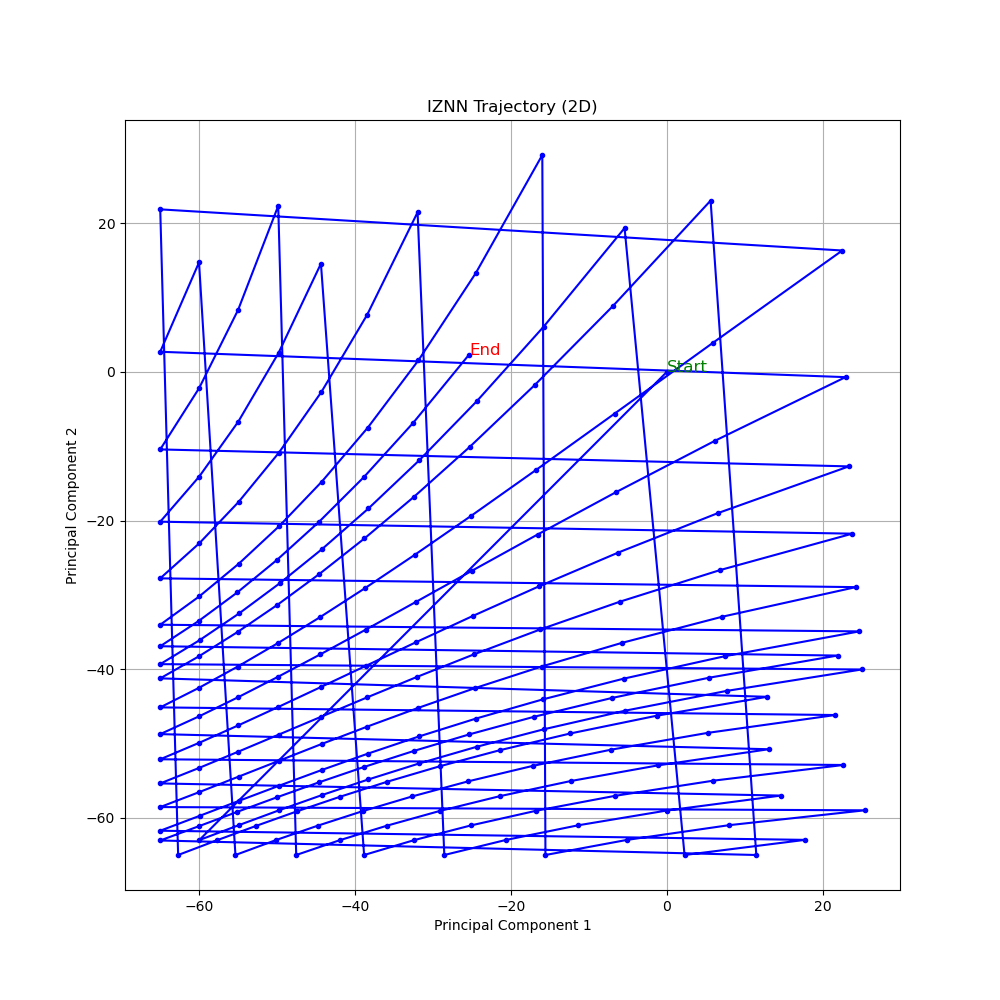
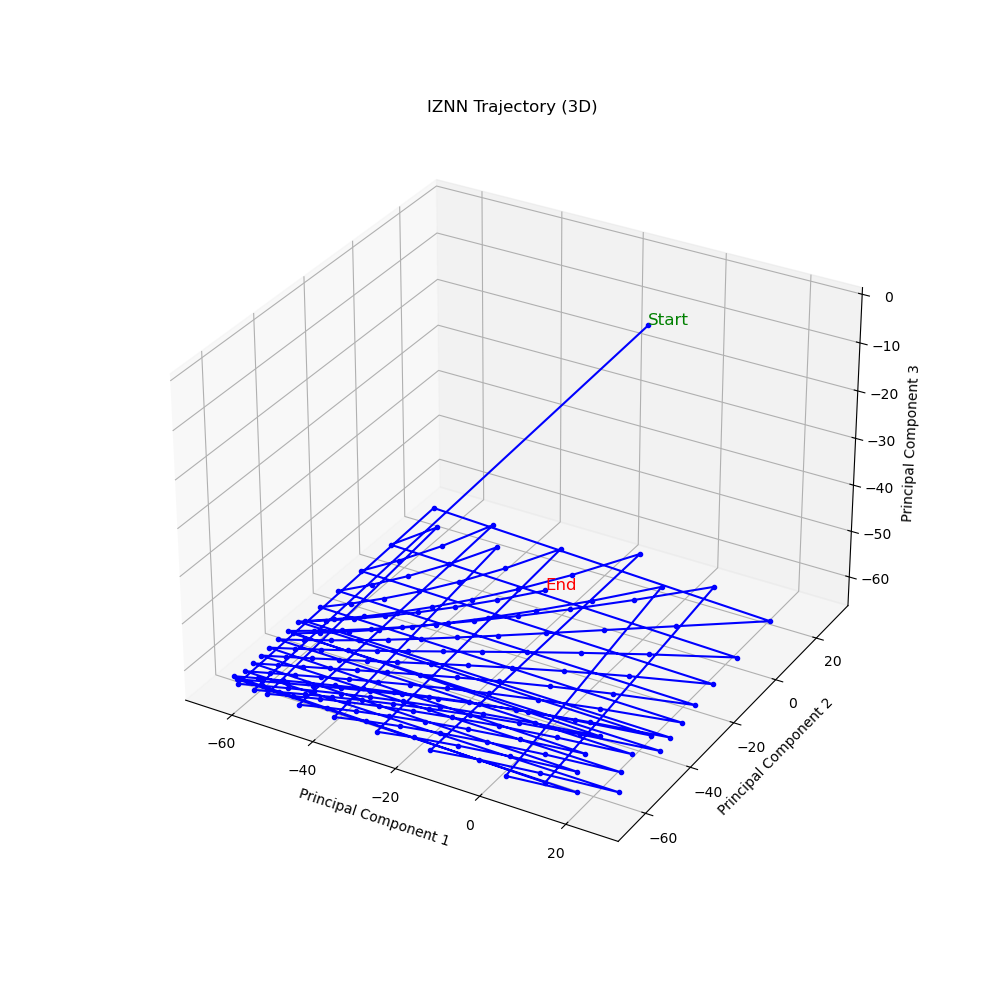
working on determining attractors and reworked the way dynamic plotters receive their output to be closer to industry standard

diff --git a/ctneat/ctrnn/ctrnn_visualize.py b/ctneat/ctrnn/ctrnn_visualize.py
@@ -37,8 +37,8 @@ def draw_ctrnn_dynamics(states: np.ndarray, uniform_time: bool = True, times: Op
     """
     This function draws the dynamics of the CTRNN over time.
     Args:
-        states: A 2D numpy array where each column corresponds to the state of the network at a given time step,
-        and each row corresponds to a specific node's state.
+        states: A 2D numpy array where each row corresponds to the state of the network at a given time step,
+        and each column corresponds to a specific node's state.
         iznn: Whether the network is an Izhikevich spiking neural network (IZNN). If True, the function gives correct labels.
         save: Whether to save the plot as a file. If False, the plot is shown interactively.
         show: Whether to display the plot interactively. If False, the plot is only saved to a file if 'save' is True.
@@ -48,9 +48,9 @@ def draw_ctrnn_dynamics(states: np.ndarray, uniform_time: bool = True, times: Op
         None
     """
     if uniform_time:
-        times = np.arange(states.shape[1])
+        times = np.arange(states.shape[0])
     else:
-        if times is None or len(times) != states.shape[1]:
+        if times is None or len(times) != states.shape[0]:
             raise ValueError("Invalid times array. Must be provided and match the number of time steps in states.")
 
     plt.figure()
@@ -59,8 +59,8 @@ def draw_ctrnn_dynamics(states: np.ndarray, uniform_time: bool = True, times: Op
     plt.ylabel("Output")
     plt.grid()
 
-    for i in range(states.shape[0]):
-        plt.plot(times, states[i], label=f"Node {i+1}")
+    for i in range(states.shape[1]):
+        plt.plot(times, states[:, i], label=f"Node {i+1}")
 
     plt.legend(loc="best")
     if save:
@@ -73,8 +73,8 @@ def draw_ctrnn_trajectory(states: np.ndarray, n_components: int = 2, iznn: Optio
     This function draws a trajectory of the CTRNN's state space.
     If there are more than 'n_components' nodes, the PCA is used to reduce the dimensionality to 'n_components'.
     Args:
-        states: A 2D numpy array where each column corresponds to the state of the network at a given time step,
-        and each row corresponds to a specific node's state.
+        states: A 2D numpy array where each row corresponds to the state of the network at a given time step,
+        and each column corresponds to a specific node's state.
         n_components: The number of components to reduce to (default is 2, max is 3).
         iznn: Whether the network is an Izhikevich spiking neural network (IZNN). If True, the function gives correct labels.
         save: Whether to save the plot as a file. If False, the plot is shown interactively.
@@ -89,7 +89,7 @@ def draw_ctrnn_trajectory(states: np.ndarray, n_components: int = 2, iznn: Optio
     if n_components < 1 or n_components > 3:
         raise ValueError("Invalid number of components. Must be 1, 2, or 3.")
 
-    if states.shape[0] > n_components:
+    if states.shape[1] > n_components:
         pca = PCA(n_components=n_components)
         reduced_states = pca.fit_transform(states)
     else:
@@ -102,10 +102,10 @@ def draw_ctrnn_trajectory(states: np.ndarray, n_components: int = 2, iznn: Optio
         plt.ylabel("Principal Component 1")
         plt.grid()
 
-        plt.plot(range(reduced_states.shape[0]), reduced_states[0], color='b', marker='o', markersize=3)
+        plt.plot(range(reduced_states.shape[1]), reduced_states[:, 0], color='b', marker='o', markersize=3)
         # denoting the start and end points
-        plt.text(range(reduced_states.shape[0])[0], reduced_states[0][0], 'Start', fontsize=12, color='green')
-        plt.text(range(reduced_states.shape[0])[-1], reduced_states[0][-1], 'End', fontsize=12, color='red')
+        plt.text(range(reduced_states.shape[1])[0], reduced_states[0][0], 'Start', fontsize=12, color='green')
+        plt.text(range(reduced_states.shape[1])[-1], reduced_states[-1][0], 'End', fontsize=12, color='red')
 
     elif n_components == 2:
         plt.figure(figsize=(10,10))
@@ -114,10 +114,10 @@ def draw_ctrnn_trajectory(states: np.ndarray, n_components: int = 2, iznn: Optio
         plt.ylabel("Principal Component 2")
         plt.grid()
 
-        plt.plot(reduced_states[0], reduced_states[1], color='b', marker='o', markersize=3)
+        plt.plot(reduced_states[:, 0], reduced_states[:, 1], color='b', marker='o', markersize=3)
         # denoting the start and end points
-        plt.text(reduced_states[0][0], reduced_states[1][0], 'Start', fontsize=12, color='green')
-        plt.text(reduced_states[0][-1], reduced_states[1][-1], 'End', fontsize=12, color='red')
+        plt.text(reduced_states[0][0], reduced_states[0][1], 'Start', fontsize=12, color='green')
+        plt.text(reduced_states[-1][0], reduced_states[-1][1], 'End', fontsize=12, color='red')
 
     elif n_components == 3:
         plt.figure(figsize=(10,10))
@@ -129,10 +129,10 @@ def draw_ctrnn_trajectory(states: np.ndarray, n_components: int = 2, iznn: Optio
         ax.set_ylabel("Principal Component 2")
         ax.set_zlabel("Principal Component 3")
 
-        ax.plot3D(reduced_states[0], reduced_states[1], reduced_states[2], color='b', marker='o', markersize=3)
+        ax.plot3D(reduced_states[:, 0], reduced_states[:, 1], reduced_states[:, 2], color='b', marker='o', markersize=3)
         # denoting the start and end points
-        ax.text(reduced_states[0][0], reduced_states[1][0], reduced_states[2][0], 'Start', fontsize=12, color='green')
-        ax.text(reduced_states[0][-1], reduced_states[1][-1], reduced_states[2][-1], 'End', fontsize=12, color='red')
+        ax.text(reduced_states[0][0], reduced_states[0][1], reduced_states[0][2], 'Start', fontsize=12, color='green')
+        ax.text(reduced_states[-1][0], reduced_states[-1][1], reduced_states[-1][2], 'End', fontsize=12, color='red')
 
     if save:
         plt.savefig(f"{dir_name + '/' if dir_name else ''}{file_name or 'iznn_trajectory' if iznn else 'ctrnn_trajectory'}.png")

diff --git a/ctneat/iznn/dynamic_attractors.py b/ctneat/iznn/dynamic_attractors.py
@@ -1,0 +1,80 @@
+import numpy as np
+
+def detect_attractor(history: np.ndarray, 
+                       times: np.ndarray, 
+                       max_period_ms: float, 
+                       tolerance: float = 1e-3,
+                       verify_steps: int = 10):
+    """
+    Detects a periodic attractor in the history of a dynamical system.
+
+    Args:
+        history (np.ndarray): A 2D array where rows are variables (e.g., neurons) 
+                              and columns are time steps.
+        times (np.ndarray): A 1D array of time stamps for each step.
+        max_period_ms (float): The maximum period length to search for in milliseconds.
+        tolerance (float): The maximum Euclidean distance for two states to be considered 'the same'.
+        verify_steps (int): How many consecutive steps to check to confirm a cycle.
+
+    Returns:
+        A tuple (period_ms, start_time_ms, end_time_ms) if an attractor is found,
+        otherwise None.
+    """
+    num_vars, num_steps = history.shape
+    if num_steps < 2:
+        return None
+
+    # Iterate backwards from the most recent state
+    for t_current in range(num_steps - 1, verify_steps, -1):
+        current_state = history[:, t_current]
+        
+        # Look for a matching state in the past
+        t_past_min = max(0, t_current - int(max_period_ms / (times[1] - times[0])))
+
+        for t_past in range(t_current - 1, t_past_min, -1):
+            past_state = history[:, t_past]
+            
+            # 1. Find a potential match
+            distance = np.linalg.norm(current_state - past_state)
+            
+            if distance < tolerance:
+                # 2. Verify the sequence
+                is_a_cycle = True
+                for i in range(1, verify_steps):
+                    if np.linalg.norm(history[:, t_current - i] - history[:, t_past - i]) > tolerance:
+                        is_a_cycle = False
+                        break
+                
+                if is_a_cycle:
+                    period_steps = t_current - t_past
+                    period_ms = times[t_current] - times[t_past]
+                    start_time_ms = times[t_past]
+                    end_time_ms = times[t_current]
+                    print(f"✅ Attractor detected! Period: {period_ms:.2f} ms")
+                    return (period_ms, start_time_ms, end_time_ms, t_past, t_current)
+
+    print("❌ No attractor found within the given constraints.")
+    return None
+
+
+def characterize_attractor_spikes(fired_history: np.ndarray, t_start: int, t_end: int):
+    """
+    Creates a spike pattern string for a detected attractor period.
+    
+    Args:
+        fired_history (np.ndarray): A 2D array of firing states (1.0 or 0.0).
+        t_start (int): The starting time index of the attractor cycle.
+        t_end (int): The ending time index of the attractor cycle.
+        
+    Returns:
+        str: A string representing the spike pattern.
+    """
+    attractor_spikes = fired_history[:, t_start:t_end]
+    fingerprint = []
+    for t in range(attractor_spikes.shape[1]):
+        spiking_neurons = np.where(attractor_spikes[:, t] > 0.5)[0]
+        if len(spiking_neurons) > 0:
+            fingerprint.append(",".join(map(str, spiking_neurons)))
+        else:
+            fingerprint.append("_")
+    return "-".join(fingerprint)

diff --git a/examples/neuron-demo/iznn/iznn-network.py b/examples/neuron-demo/iznn/iznn-network.py
@@ -3,8 +3,6 @@ import numpy as np
 import os
 import sys
 
-sys.path.append(os.path.abspath(os.path.join(os.path.dirname(__file__), '../../..')))
-
 import ctneat
 from ctneat.ctrnn.ctrnn_visualize import draw_ctrnn_net, draw_ctrnn_dynamics, draw_ctrnn_trajectory
 
@@ -12,22 +10,24 @@ from ctneat.ctrnn.ctrnn_visualize import draw_ctrnn_net, draw_ctrnn_dynamics, dr
 # Create a fully-connected network of a few neurons with no external inputs.
 node1_inputs = [(0, 0.5) ,(1, 0.9), (2, 0.5)]
 node2_inputs = [(0, 0.2), (1, -0.2), (2, 0.8)]
+node3_inputs = [(1, 0.8), (2, 0.8)]
 
-draw_ctrnn_net([0, 1, 2], {1: node1_inputs, 2: node2_inputs}, iznn=True)
+draw_ctrnn_net([0, 1, 2, 3], {1: node1_inputs, 2: node2_inputs, 3: node3_inputs}, iznn=True)
 
 n1 = ctneat.iznn.IZNeuron(bias=0.0, **ctneat.iznn.THALAMO_CORTICAL_PARAMS, inputs=node1_inputs)
 n2 = ctneat.iznn.IZNeuron(bias=0.0, **ctneat.iznn.THALAMO_CORTICAL_PARAMS, inputs=node2_inputs)
+n3 = ctneat.iznn.IZNeuron(bias=0.0, **ctneat.iznn.LOW_THRESHOLD_SPIKING_PARAMS, inputs=node3_inputs)
 
-iznn_nodes = {1: n1, 2: n2}
+iznn_nodes = {1: n1, 2: n2, 3: n3}
 
-net = ctneat.iznn.IZNN(iznn_nodes, [0], [1, 2])
+net = ctneat.iznn.IZNN(iznn_nodes, [0], [1, 2, 3])
 
 init0 = 200
 
 net.set_inputs([init0])
 
 times = [0.0]
-outputs = [[n1.fired, n2.fired]]
+outputs = [[n1.fired, n2.fired, n3.fired]]
 for i in range(200):
     output = net.advance_event_driven(0.05, ret='voltages')
     times.append(net.time_ms)
@@ -36,8 +36,12 @@ for i in range(200):
     # printout = ["{0:.7f}".format(o) for o in output]
     # print(" ".join(printout))
 
-outputs = np.array(outputs).T
+# saving the outputs as a numpy array of shape [num_steps, num_neurons]
+with open("iznn-demo-outputs.npy", "wb") as f:
+    np.save(f, np.array(outputs))
+
+outputs = np.array(outputs)
 
 draw_ctrnn_dynamics(outputs, uniform_time=False, times=times, iznn=True, save=True, show=False)
 
-draw_ctrnn_trajectory(outputs, n_components=2, iznn=True, save=True, show=False)
+draw_ctrnn_trajectory(outputs, n_components=3, iznn=True, save=True, show=False)

diff --git a/ctneat/iznn/dynamic_attractors_rqa.py b/ctneat/iznn/dynamic_attractors_rqa.py
@@ -1,0 +1,29 @@
+from pyrqa.settings import Settings
+from pyrqa.computation import RQAComputation
+from pyrqa.image_generator import ImageGenerator
+import numpy as np
+
+# 1. Run your simulation and get the voltage history
+# voltages_history_np has shape [num_neurons, num_steps]
+with open("iznn-demo-outputs.npy", "rb") as f:
+    voltages_history_np = np.load(f)
+
+# We need to transpose it and treat each time step as a point in a high-D space
+time_series = voltages_history_np.T 
+
+# 2. Configure and run PyRQA
+settings = Settings(
+    time_series,
+    embedding_dimension=time_series.shape[1], # Use all neurons as dimensions
+    time_delay=1,
+    similarity_measure='euclidean',
+    neighbourhood_radius=0.1 # This is the 'tolerance' - you'll need to tune it!
+)
+
+computation = RQAComputation.create(settings, verbose=True)
+result = computation.run()
+
+print(result)
+
+# 3. Save the recurrence plot to see the attractor
+ImageGenerator.save_recurrence_plot(result.recurrence_matrix_reverse, 'recurrence_plot.png')
